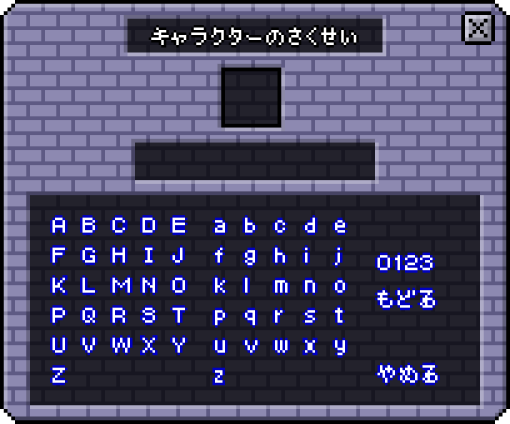
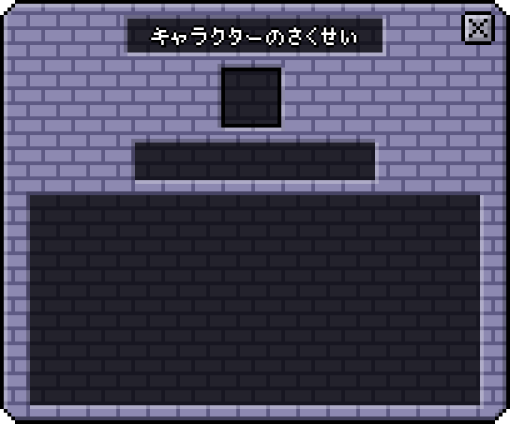
Add:NameKeyboard

diff --git a/ptsd-template-main/src/Buttons/NameKeyBoard.cpp b/ptsd-template-main/src/Buttons/NameKeyBoard.cpp
@@ -1,26 +1,94 @@
 #include "Buttons/NameKeyBoard.hpp"
 #include "Util/Renderer.hpp"
+#include "Button.hpp"
 
 NameKeyBoard::NameKeyBoard(Util::Renderer *m_Root) {
-    (void)m_Root;
-    // char buffer[200];
-    //初始化大寫字母按鈕
-    // for (int i = 0; i < 26; i++) {
-    //     snprintf(buffer, sizeof(buffer), RESOURCE_DIR"/Button/BigLetter/%c.png", 'A'+i);
-    //     m_BigLetterBtn.emplace_back(std::make_shared<Button>(buffer));
-    //     m_BigLetterBtn[i]->SetZIndex(8);
-    //     m_BigLetterBtn[i]->SetPosition({-196+(i%5)*30, -13-int(i/5)*30});
-    //     m_BigLetterBtn[i]->SetVisible(true);
-    //     m_Root->AddChild(m_BigLetterBtn[i]);
-    // }
+    // (void)m_Root;
+    char buffer[200];
+    char buffer2[200];
+    // 初始化大寫字母按鈕
+    for (int i = 0; i < 26; i++) {
+        snprintf(buffer, sizeof(buffer), RESOURCE_DIR"/Button/BigLetter/%c.png", 'A'+i);
+        snprintf(buffer2, sizeof(buffer2), RESOURCE_DIR"/Button/BigLetter/s%c.png", 'A'+i);
+        m_BigLetterBtn.emplace_back(std::make_shared<Button>(std::vector<std::string>{buffer, buffer2}));
+        m_BigLetterBtn[i]->SetZIndex(8);
+        m_BigLetterBtn[i]->SetPosition({-196+(i%5)*30, -13-int(i/5)*30+500});
+        m_BigLetterBtn[i]->SetVisible(false);
+        m_Root->AddChild(m_BigLetterBtn[i]);
+    }
     
     //初始化小寫字母按鈕
-    // for (int i = 0; i < 26; i++) {
-    //     snprintf(buffer, sizeof(buffer), RESOURCE_DIR"/Button/SmallLetter/%c.png", 'a'+i);
-    //     m_SmallLetterBtn.emplace_back(std::make_shared<Button>(buffer));
-    //     m_SmallLetterBtn[i]->SetZIndex(8);
-    //     m_SmallLetterBtn[i]->SetPosition({-38+(i%5)*30, -13-int(i/5)*30});
-    //     m_SmallLetterBtn[i]->SetVisible(true);
-    //     m_Root->AddChild(m_SmallLetterBtn[i]);
-    // }
+    for (int i = 0; i < 26; i++) {
+        
+        snprintf(buffer, sizeof(buffer), RESOURCE_DIR"/Button/SmallLetter/%c.png", 'a'+i);
+        snprintf(buffer2, sizeof(buffer2), RESOURCE_DIR"/Button/SmallLetter/s%c.png", 'a'+i);
+        m_SmallLetterBtn.emplace_back(std::make_shared<Button>(std::vector<std::string>{buffer, buffer2}));
+        m_SmallLetterBtn[i]->SetZIndex(8);
+        m_SmallLetterBtn[i]->SetPosition({-38+(i%5)*30, -13-int(i/5)*30+500});
+        m_SmallLetterBtn[i]->SetVisible(false);
+        m_Root->AddChild(m_SmallLetterBtn[i]);
+    }
+}
+
+
+void NameKeyBoard::Open(){
+    state = State::Open;
+    for (int i = 0; i < 26; i++)
+    {
+        m_BigLetterBtn[i]->SetVisible(true);
+        m_SmallLetterBtn[i]->SetVisible(true);
+    }
+}
+void NameKeyBoard::Closing() {
+    state = State::Closing;
+}
+void NameKeyBoard::Close() {
+    for (int i = 0; i < 26; i++)
+    {
+        m_BigLetterBtn[i]->SetVisible(false);
+        m_SmallLetterBtn[i]->SetVisible(false);
+    }
+    
+}
+
+
+void NameKeyBoard::Update() {
+    
+    
+    for (int i = 0; i < 26; i++)
+    {
+        if (m_BigLetterBtn[i]->IfFocus()) {
+            m_BigLetterBtn[i]->ChangeImage(2);
+            m_BigLetterBtn[i]->SetVisible(true);
+        }
+        else {
+            m_BigLetterBtn[i]->ChangeImage(1);
+        }
+        
+        if (state == State::Open) {
+            m_BigLetterBtn[i]->Move({0, -20}, {-196+(i%5)*30, -13-int(i/5)*30});
+        }
+        if (state == State::Closing) {
+            m_BigLetterBtn[i]->Move({0, 20}, {-196+(i%5)*30, -13-int(i/5)*30+500});
+        }
+    }
+    
+    
+    for (int i = 0; i < 26; i++)
+    {
+        if (m_SmallLetterBtn[i]->IfFocus()) {
+            m_SmallLetterBtn[i]->ChangeImage(2);
+            m_SmallLetterBtn[i]->SetVisible(true);
+        }
+        else {
+            m_SmallLetterBtn[i]->ChangeImage(1);
+        }
+        
+        if (state == State::Open) {
+            m_SmallLetterBtn[i]->Move({0, -20}, {-38+(i%5)*30, -13-int(i/5)*30});
+        }
+        if (state == State::Closing) {
+            m_SmallLetterBtn[i]->Move({0, 20}, {-38+(i%5)*30, -13-int(i/5)*30+500});
+        }
+    }
 }

diff --git a/ptsd-template-main/src/Menus/CreateCharacterMenu.cpp b/ptsd-template-main/src/Menus/CreateCharacterMenu.cpp
@@ -2,6 +2,7 @@
 #include "Button.hpp"
 #include "MoveAnimated.hpp"
 #include "MyBGM.hpp"
+#include "Buttons/NameKeyBoard.hpp"
 
 CreateCharacterMenu::CreateCharacterMenu(Util::Renderer *m_Root) {
     //初始化創角菜單背景
@@ -55,6 +56,8 @@ CreateCharacterMenu::CreateCharacterMenu(Util::Renderer *m_Root) {
     m_MenuOpenBGM = std::make_shared<MyBGM>(RESOURCE_DIR"/BGM/MenuOpenSnd.wav");     
     m_MenuCloseBGM = std::make_shared<MyBGM>(RESOURCE_DIR"/BGM/MenuCloseSnd.wav");
     m_WarriorDoorBGM = std::make_shared<MyBGM>(RESOURCE_DIR"/BGM/SkinDoorSnd.wav");
+
+    m_NameKeyBoard = std::make_shared<NameKeyBoard>(m_Root);
 }
 
 void CreateCharacterMenu::OpenMenu(){
@@ -69,6 +72,7 @@ void CreateCharacterMenu::OpenMenu(){
     m_CreateCharacter_X->SetVisible(true);
     m_CreateCharacter_X->ChangeImage(1);
     m_MenuOpenBGM->Play(0);
+    m_NameKeyBoard->Open();
 }
 
 void CreateCharacterMenu::CloseMenu(){
@@ -78,9 +82,12 @@ void CreateCharacterMenu::CloseMenu(){
     m_MenuBackGround->SetState(Menu::State::Close);
     m_CreateCharacter_X->SetVisible(false);
     m_MenuCloseBGM->Play(0);
+    m_NameKeyBoard->Closing();
 }
 
 void CreateCharacterMenu::Update(){
+    m_NameKeyBoard->Update();
+
     if (m_MenuBackGround->GetState() == Menu::State::Open) {
         m_MenuBackGround->Move({0, -20}, {0, 0});
         m_WarriorDoor->Move({0, -20}, {-3.5, 115.5});
@@ -127,6 +134,7 @@ void CreateCharacterMenu::Update(){
         m_MenuBackGround->SetVisible(false);
         m_WarriorDoor->SetVisible(false);
         m_CreateCharacter_X->SetVisible(false);
+        m_NameKeyBoard->Close();
     }
     else if (state == State::Open) {
         this->SetVisible(true);

diff --git a/ptsd-template-main/src/App.cpp b/ptsd-template-main/src/App.cpp
@@ -34,7 +34,7 @@ void App::Start() {
     m_StartMenu = std::make_shared<StartMenu>(&m_Root);
     m_NewGameButton = std::make_shared<NewGameButton>(&m_Root);
     m_CreateCharacterMenu = std::make_shared<CreateCharacterMenu>(&m_Root);
-    m_NameKeyBoard = std::make_shared<NameKeyBoard>(&m_Root);
+    
     
     m_CurrentState = State::UPDATE;
 }
@@ -57,14 +57,14 @@ void App::Update() {
 
     m_NewGameButton->Update();
     if (m_NewGameButton->IfClick()) {
-        // m_NewGameButton->Close();
-        // m_CreateCharacterMenu->OpenMenu();
-        m_NewGameButton->SetVisible(false);
+        m_NewGameButton->Close();
+        m_CreateCharacterMenu->OpenMenu();
+        // m_NewGameButton->SetVisible(false);
         
         m_Player = std::make_shared<Player>(RESOURCE_DIR"/Character/Butterfly.png", 4, 0, glm::vec2{1, 4}, 0, 105, 5, std::vector<int>{0, 0, 0, 0, 0}, 1, 6);
         m_Root.AddChild(m_Player);
-        
-        m_map = std::make_shared<Map>(&m_Root);
+
+        // m_map = std::make_shared<Map>(&m_Root);
     }
     
     if(m_CreateCharacterMenu->GetState() != Menu::State::Close) {

diff --git a/ptsd-template-main/include/Buttons/NameKeyBoard.hpp b/ptsd-template-main/include/Buttons/NameKeyBoard.hpp
@@ -12,11 +12,19 @@ class Button;
 
 class NameKeyBoard : public Util::GameObject {
 public:
+    enum class State{
+        Open,
+        Close,
+        Closing,
+        Stop
+    };
     NameKeyBoard(Util::Renderer *m_Root);
     
     virtual ~NameKeyBoard() = default;
 
     void Open();
+
+    void Closing();
 
     void Close();
     
@@ -24,6 +32,8 @@ public:
 private:
     std::vector<std::shared_ptr<Button>> m_BigLetterBtn;
     std::vector<std::shared_ptr<Button>> m_SmallLetterBtn;
+    State state;
+
 };
 
 #endif //NAMEKEYBOARD_HPP

diff --git a/ptsd-template-main/include/Menus/CreateCharacterMenu.hpp b/ptsd-template-main/include/Menus/CreateCharacterMenu.hpp
@@ -12,6 +12,7 @@ namespace Util {
 class Button;
 class MoveAnimated;
 class MyBGM;
+class NameKeyBoard;
 
 class CreateCharacterMenu : public Util::GameObject{
 public:
@@ -41,6 +42,8 @@ private:
     std::shared_ptr<MyBGM> m_MenuOpenBGM;
     std::shared_ptr<MyBGM> m_MenuCloseBGM;
     std::shared_ptr<MyBGM> m_WarriorDoorBGM;
+    
+    std::shared_ptr<NameKeyBoard> m_NameKeyBoard;
 
     State state;
 };

diff --git a/ptsd-template-main/src/Monster/Rat.cpp b/ptsd-template-main/src/Monster/Rat.cpp
@@ -66,6 +66,7 @@ void Rat::Update(std::vector<std::shared_ptr<ICollidable>> AllCollidableObjects,
         for (const auto& dir : directions) {
             if (this->IsCollision(m_Player, dir * m_TrackRange)) {
                 m_Player->TakeDamage(Calculation::CalcuAttack(m_Attack, 0));
+
                 return;
             }
         }

diff --git a/ptsd-template-main/include/App.hpp b/ptsd-template-main/include/App.hpp
@@ -40,7 +40,6 @@ private:
 
     std::shared_ptr<NewGameButton> m_NewGameButton;
     std::shared_ptr<CreateCharacterMenu> m_CreateCharacterMenu;
-    std::shared_ptr<NameKeyBoard> m_NameKeyBoard;
 
     std::shared_ptr<Map> m_map;
 
